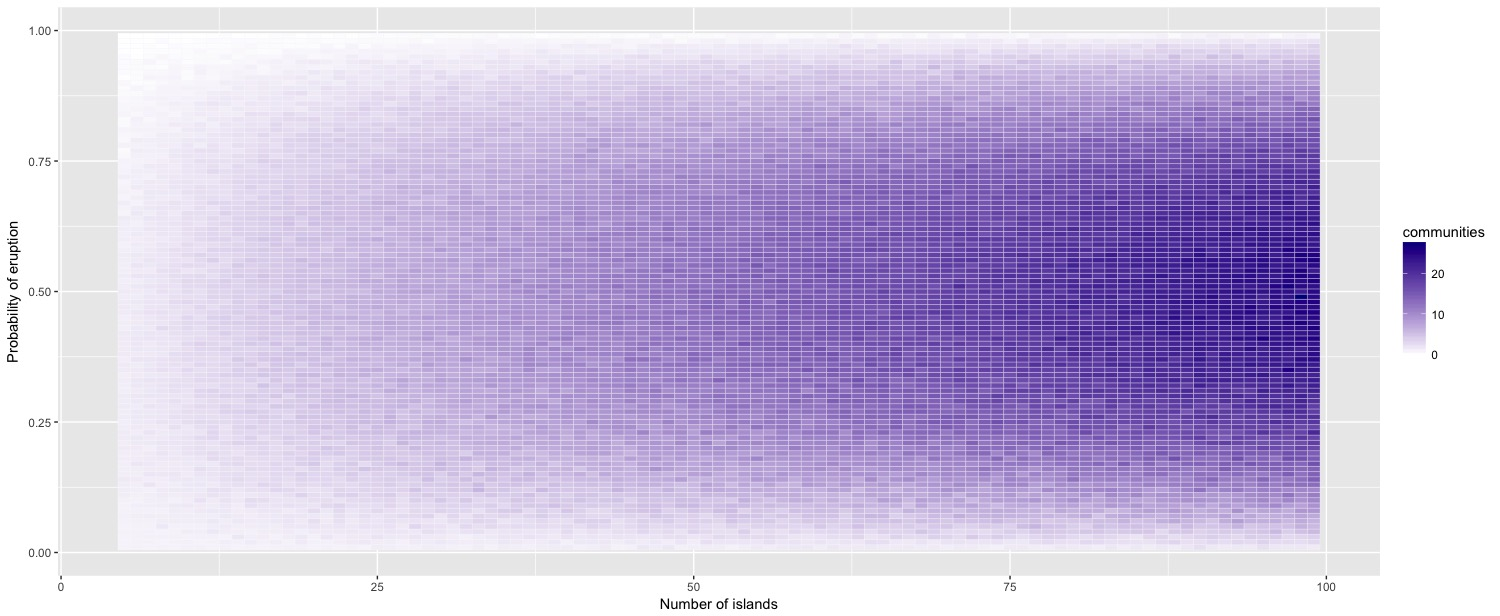
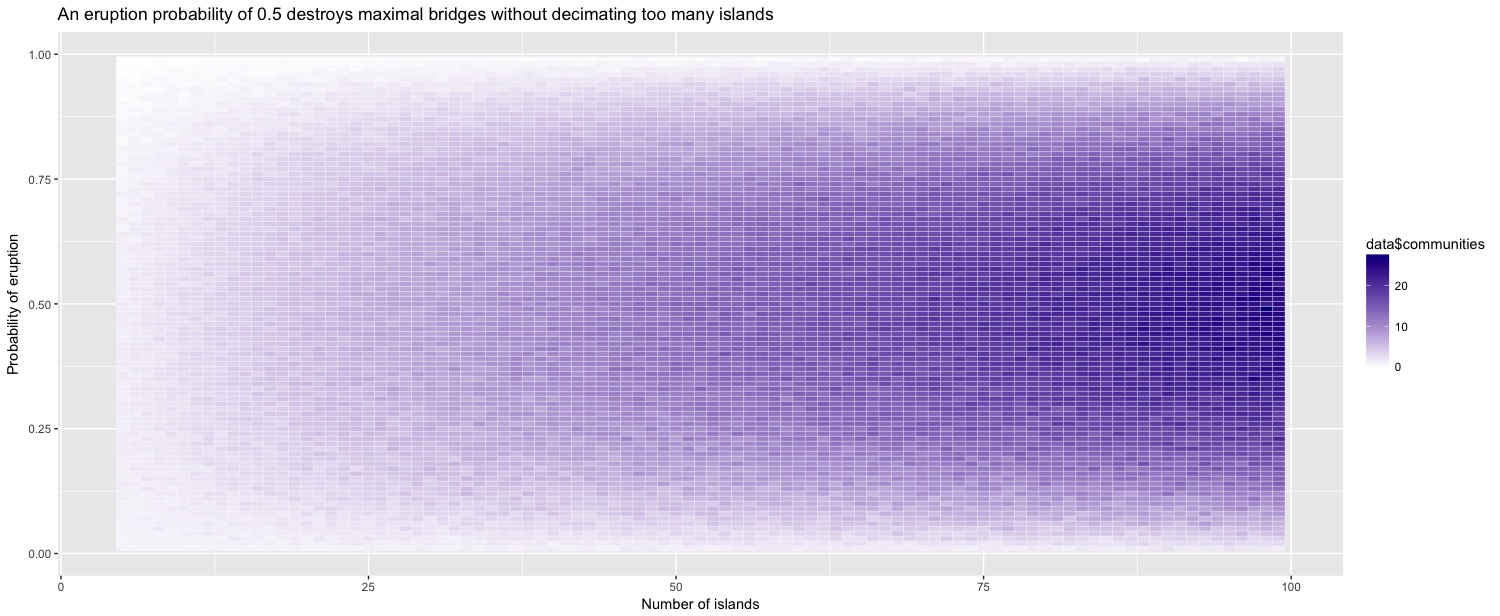
Finished writeup

diff --git a/Archipelago/README.md b/Archipelago/README.md
@@ -15,9 +15,17 @@ Each island contains exactly one volcano. You know that if a volcano erupts, the
 If there were N islands in the archipelago originally and each volcano erupts independently with probability p, how many disjointed communities can you expect to find when you return? What value of p maximizes this number?
 
 ## Workflow
-Once again, I eschewed theoretical underpinnings and built a little simulator! This is a neat problem in graph theory, where the island/bridge setup can be represented by a [tree](https://en.wikipedia.org/wiki/Tree_(graph_theory)).
+Once again, I eschewed theoretical underpinnings and built a little simulator! This is a neat problem in graph theory, where the island/bridge setup can be represented by a [tree](https://en.wikipedia.org/wiki/Tree_(graph_theory)). Once that decision is made, the strategy for setting up the experiment is pretty simple.
 
-Made use of [NetworkX](https://networkx.github.io/documentation/latest/_downloads/networkx_reference.pdf)
+I made use of the excellent [NetworkX](https://networkx.github.io/documentation/latest/_downloads/networkx_reference.pdf) Python package to set up the tree randomly. Then, I iterated through every node in the tree and destroyed it with probability `p`. I ran this experiment 20 times each for a range of probabilities between 0.01 and 0.99 and island numbers from 5 to 99, collecting the results in a very tall CSV.
+
+## Results
+
+Then I popped over to R so I could use `ggplot` to create a visualization. A heatmap seemed like the best way to capture what is essentially a 3-dimensional dataset. The symmetry of the plot around `p = 0.5` underscored my original assumption, which was to strive for a balance between separating as many communities as possible without eliminating too many islands in the process.
+
+Across all probabilities, for an original configuration with `n` islands, the mean number of communities remaining was about `0.18n` and the median was about `0.2n`. So if you started with 50 islands in general, the expected number of isolated communities after the eruptions would be 10.
+
+I really enjoyed getting to use a graph library; definitely curious to see what other simulations I could make with graphs. One thing that would have made this challenge even more interesting would be some kind of stochastic ripple effect. Maybe I'll add that in and see how it effects the results.
 
 ![A heatmap of experimental results shows that 0.5 is the "optimal" value](communityPlot.jpeg)
 
